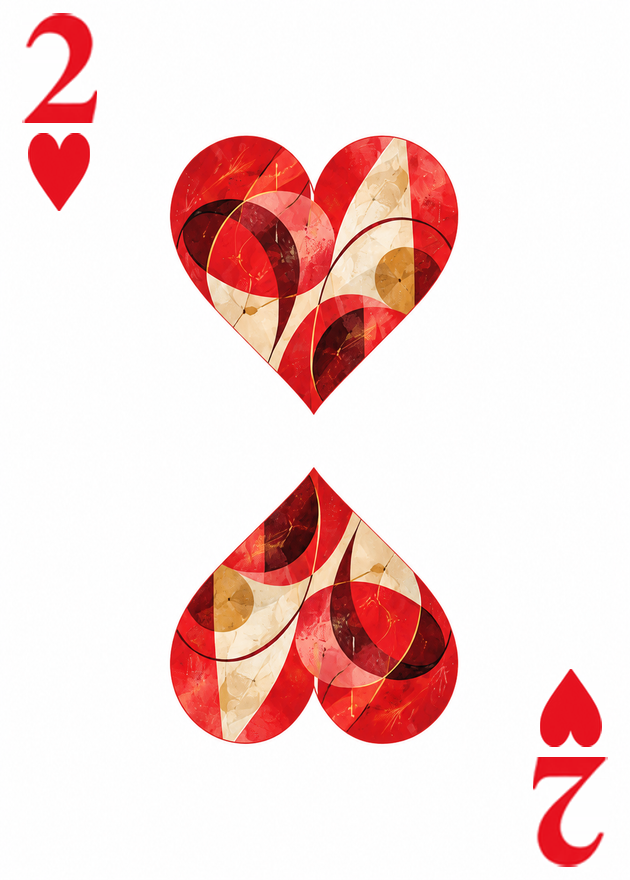
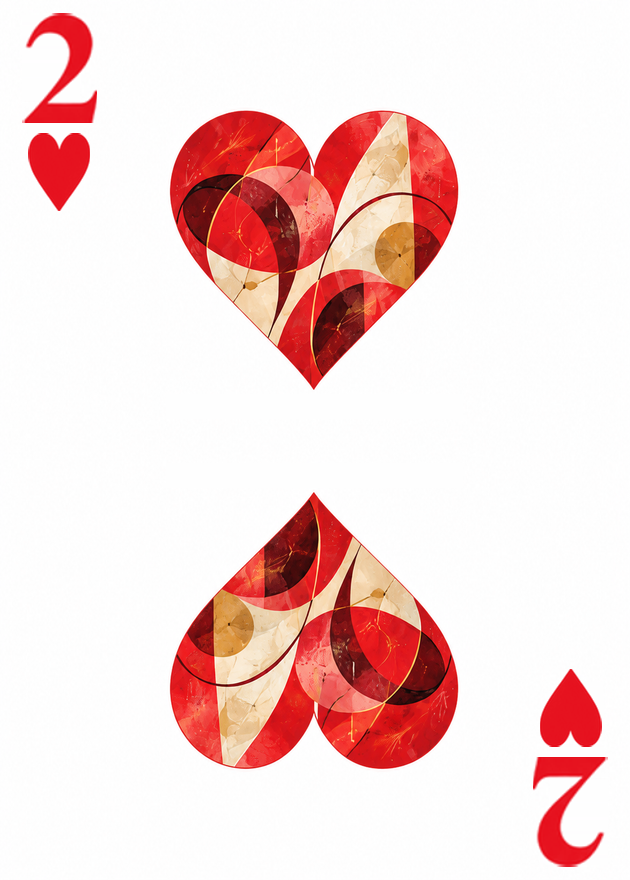
Add Jinxiu Huazhang theme and update Geometric Rhapsody heart two

Changed region(s): [[0.2714, 0.5216, 0.754, 0.8898], [0.2714, 0.1227, 0.754, 0.4909]]

diff --git a/index.html b/index.html
@@ -184,6 +184,7 @@ function estimateWinProb(holeCards,community,numOpponents,iterations){iterations
 var CARD_THEMES={
   "svg-cards":{label:"SVG-cards",directory:"cards/",extension:"svg",width:169.075,height:244.640,music:"audio/svg-cards.mp3",musicLoopEnd:80},
   "geometric-rhapsody":{label:"Geometric Rhapsody",directory:"cards/geometric-rhapsody/",extension:"webp",width:630,height:880,background:"backgrounds/geometric-rhapsody.webp",surround:"#171e29",music:"audio/geometric-rhapsody.mp3",musicLoopEnd:50},
+  "jinxiu-huazhang":{label:"Jinxiu Huazhang",directory:"cards/jinxiu-huazhang/",extension:"webp",width:630,height:880,background:"backgrounds/jinxiu-huazhang.webp",surround:"#322c21",music:"audio/jinxiu-huazhang.mp3",musicLoopEnd:54},
   "blood-moon-castle":{label:"Blood Moon Castle",directory:"cards/blood-moon-castle/",extension:"webp",width:630,height:880,background:"backgrounds/blood-moon-castle.webp",surround:"#0c111b",music:"audio/blood-moon-castle.mp3",musicLoopEnd:91},
   "azure-holiday":{label:"Azure Holiday",directory:"cards/azure-holiday/",extension:"webp",width:630,height:880,background:"backgrounds/azure-holiday.webp",surround:"#0a5266",music:"audio/azure-holiday.mp3",musicLoopEnd:77},
   "cyber-epoch":{label:"Cyber Epoch",directory:"cards/cyber-epoch/",extension:"webp",width:630,height:880,background:"backgrounds/cyber-epoch.webp",surround:"#091323",music:"audio/cyber-epoch.mp3",musicLoopEnd:48},

diff --git a/README.md b/README.md
@@ -9,10 +9,10 @@ A browser-based Fixed-Limit Texas Hold'em poker game. No installation, no build 
 - **6-player table** — You vs. 5 AI opponents, each with a distinct personality
 - **Fixed-Limit betting** — Small bet / big bet structure with a 4-raise cap per round
 - **Realistic card graphics** — Rendered via the [SVG-cards](https://github.com/htdebeer/SVG-cards) library
-- **Selectable card designs** — Choose SVG-cards, Geometric Rhapsody, Blood Moon Castle, Azure Holiday (碧海假日), Cyber Epoch (赛博纪元), or Star Voyage (星河纪行), in that order, from the lower-left menu, opposite the deal/action controls. Fronts, backs, and the background change together without restarting the hand; the browser remembers your choice.
-- **Themed backgrounds** — SVG-cards keeps the oval felt table. Geometric Rhapsody uses a textured abstract geometric painting, Blood Moon Castle uses a photorealistic Gothic castle under a blood moon, Azure Holiday uses a sunny tropical beach, Cyber Epoch uses a futuristic city illuminated by neon lights, and Star Voyage uses a navy-and-gold celestial sailing chart. Each custom background fills the 1200×700 canvas, which scales to the screen.
+- **Selectable card designs** — Choose SVG-cards, Geometric Rhapsody, Jinxiu Huazhang (锦绣华章), Blood Moon Castle, Azure Holiday (碧海假日), Cyber Epoch (赛博纪元), or Star Voyage (星河纪行), in that order, from the lower-left menu, opposite the deal/action controls. Fronts, backs, and the background change together without restarting the hand; the browser remembers your choice.
+- **Themed backgrounds** — SVG-cards keeps the oval felt table. Geometric Rhapsody uses a textured abstract geometric painting, Jinxiu Huazhang uses a Chinese palace garden beside a mountain lake at sunset, Blood Moon Castle uses a photorealistic Gothic castle under a blood moon, Azure Holiday uses a sunny tropical beach, Cyber Epoch uses a futuristic city illuminated by neon lights, and Star Voyage uses a navy-and-gold celestial sailing chart. Each custom background fills the 1200×700 canvas, which scales to the screen.
 - **Sound effects** — Web Audio API tones for deal, check, call, raise, fold, all-in, and win
-- **Theme music** — All six themes play their supplied MP3 from the beginning every time you select that theme, looping until you leave it. Switching themes stops the previous track before starting the next.
+- **Theme music** — All seven themes play their supplied MP3 from the beginning every time you select that theme, looping until you leave it. Switching themes stops the previous track before starting the next.
 - **Auto-advance** — Next hand starts automatically after a 10-second countdown
 
 ---
@@ -62,7 +62,8 @@ Straight Flush · Four of a Kind · Full House · Flush · Straight · Three of 
 
 - Pure vanilla JavaScript, no frameworks or build tools
 - Canvas: fixed 1200×700 px, CSS-scaled to viewport via `transform: scale()`
-- Card rendering: SVG-cards faces use individual SVG files in `cards/`; its blue back references `svg-cards.svg`. Geometric Rhapsody uses 55 lossless WebP images in `cards/geometric-rhapsody/`, including the back and both Jokers from version 6 of the supplied `Geometric_Rhapsody_55_630x880.zip` (updated 2026-10-09). All 55 images have been synchronized with this version. Every decoded pixel matches its source PNG; the original 630×880 dimensions and aspect ratio are preserved.
+- Card rendering: SVG-cards faces use individual SVG files in `cards/`; its blue back references `svg-cards.svg`. Geometric Rhapsody uses 55 lossless WebP images in `cards/geometric-rhapsody/`, including the back and both Jokers from version 7 of the supplied `Geometric_Rhapsody_55_630x880.zip` (updated 2026-10-09). All 55 images have been synchronized with this version. Every decoded pixel matches its source PNG; the original 630×880 dimensions and aspect ratio are preserved.
+- Jinxiu Huazhang: the latest supplied `锦绣华章_v12_55张完整版.zip` (v12, updated 2026-10-09) is stored as 55 lossless WebP images in `cards/jinxiu-huazhang/`, including the back and both Jokers (`joker_black.webp` and `joker_red.webp`). Every decoded pixel matches its source PNG; all cards retain their 630×880 dimensions.
 - Blood Moon Castle: the latest supplied 630×880 artwork is stored as 55 lossless WebP images in `cards/blood-moon-castle/`, including both Jokers from version 11 of the supplied deck archive. Every decoded pixel matches its source PNG; the original dimensions and aspect ratio are preserved.
 - Azure Holiday: version 7 of the supplied `碧海假日_55张_630x880_修订7版.zip` (updated 2026-10-09) is stored as 55 lossless WebP images in `cards/azure-holiday/`, including both Jokers (`joker_black.webp` and `joker_red.webp`). Every decoded pixel matches its source PNG; all cards retain their 630×880 dimensions.
 - Cyber Epoch: version 5 of the supplied `Cyber_Epoch_55_Cards_630x880_Final.zip` (updated 2026-10-08) is stored as 55 lossless WebP images in `cards/cyber-epoch/`, preserving every source pixel and the original 630×880 dimensions. The small and big Jokers are retained as `joker_black.webp` and `joker_red.webp` respectively.
@@ -71,7 +72,7 @@ Straight Flush · Four of a Kind · Full House · Flush · Straight · Three of 
 - Theme backgrounds: 1200×700 WebP images in `backgrounds/`, configured with the optional `background` and `surround` properties in `CARD_THEMES`. The custom themes hide the felt-table decoration while preserving the table geometry; dark panels keep foreground text readable. See [background asset notes](backgrounds/README.md) for generation prompts.
 - Theme preference: saved locally as `texas-holdem-card-theme`; defaults to SVG-cards and remains usable when browser storage is blocked. Switching updates card graphics, background styling, and theme music while preserving game state and timers. The saved background is restored on reload, and choosing SVG-cards restores the green table.
 - AI hand strength: Chen Formula (pre-flop) + Monte Carlo win-rate simulation (post-flop)
-- Audio: sound effects use Web Audio API (`OscillatorNode` + `GainNode`). Each theme uses `audio/<theme-id>.mp3` (including `audio/azure-holiday.mp3`) through one looping `AudioBufferSourceNode` on the same audio context, with a separate gain of 0.35. Each MP3 is loaded and decoded on demand, then cached separately for future selections. Each entry starts a fresh source at offset zero; leaving stops it and invalidates pending playback, without suspending game sound effects. If browser autoplay policy blocks the default or saved theme on page load, music starts after the first click or key interaction.
+- Audio: sound effects use Web Audio API (`OscillatorNode` + `GainNode`). Each theme uses `audio/<theme-id>.mp3` (including `audio/jinxiu-huazhang.mp3`) through one looping `AudioBufferSourceNode` on the same audio context, with a separate gain of 0.35. Each MP3 is loaded and decoded on demand, then cached separately for future selections. Each entry starts a fresh source at offset zero; leaving stops it and invalidates pending playback, without suspending game sound effects. If browser autoplay policy blocks the default or saved theme on page load, music starts after the first click or key interaction.
 - Mobile / iOS: touch events handled via standard DOM; virtual layout scales automatically
 
 ### Checks
@@ -86,6 +87,8 @@ Run `node --test tests/theme-music.test.cjs` (Node.js 18+) for the theme-music s
 - SVG-cards BGM: user-supplied `SVG_Cards_Lounge_Jazz_40s_96BPM.mp3`. Playback loops from 0 to 80 seconds, skipping the trailing pause in the approximately 83-second source file.
 - Geometric Rhapsody: custom deck artwork supplied for this project.
 - Geometric Rhapsody BGM: user-supplied `Geometric_Rhapsody_BGM_30s_96BPM.mp3`. Playback loops from 0 to 50 seconds, skipping the trailing pause in the approximately 53-second source file.
+- Jinxiu Huazhang: user-supplied custom deck artwork and 1200×700 Chinese palace-garden background. The background is converted to WebP at quality 94 with its full composition preserved.
+- Jinxiu Huazhang BGM: user-uploaded `audio/jinxiu-huazhang.mp3`. Playback loops from 0 to 54 seconds of the approximately 57-second source file.
 - Blood Moon Castle: custom deck artwork supplied for this project.
 - Blood Moon Castle BGM: user-supplied `blood-moon-waltz.custom_score.mp3`. Playback loops from 0 to 91 seconds, skipping the trailing pause in the approximately 94-second source file.
 - Azure Holiday: user-supplied custom deck artwork and tropical-beach background. The background is proportionally resized and very slightly center-cropped from 1643×957 to 1200×700, then encoded as WebP at quality 94.

diff --git a/backgrounds/README.md b/backgrounds/README.md
@@ -2,6 +2,8 @@
 
 The Geometric Rhapsody and Blood Moon Castle images were generated with ChatGPT's built-in image-generation tool for this project. The generated originals were 1643×957 pixels; the website exports are resized to exactly **1200×700** with Lanczos resampling and encoded as WebP at quality 94. Star Voyage uses the background supplied on 2026-10-07, already 1200×700, converted to WebP at quality 94 without cropping or changing its composition. No interface elements are baked into the images.
 
+Jinxiu Huazhang uses the Chinese palace-garden background supplied on 2026-10-10. Its source is already **1200×700**, so it is converted to WebP at quality 94 without cropping or resizing.
+
 Azure Holiday uses the tropical-beach background supplied on 2026-10-09. Its 1643×957 source is proportionally resized with Lanczos resampling and very slightly center-cropped at the left and right edges to exactly **1200×700**, then encoded as WebP at quality 94.
 
 Cyber Epoch uses the background supplied on 2026-10-08. Its 1672×941 source is proportionally resized with Lanczos resampling and center-cropped slightly at the left and right edges to exactly **1200×700**, then encoded as WebP at quality 94.
@@ -9,6 +11,7 @@ Cyber Epoch uses the background supplied on 2026-10-08. Its 1672×941 source is 
 | Theme | Asset | Size |
 | --- | --- | --- |
 | Geometric Rhapsody | `geometric-rhapsody.webp` | 1200×700 |
+| Jinxiu Huazhang | `jinxiu-huazhang.webp` | 1200×700 |
 | Blood Moon Castle | `blood-moon-castle.webp` | 1200×700 |
 | Azure Holiday | `azure-holiday.webp` | 1200×700 |
 | Cyber Epoch | `cyber-epoch.webp` | 1200×700 |
